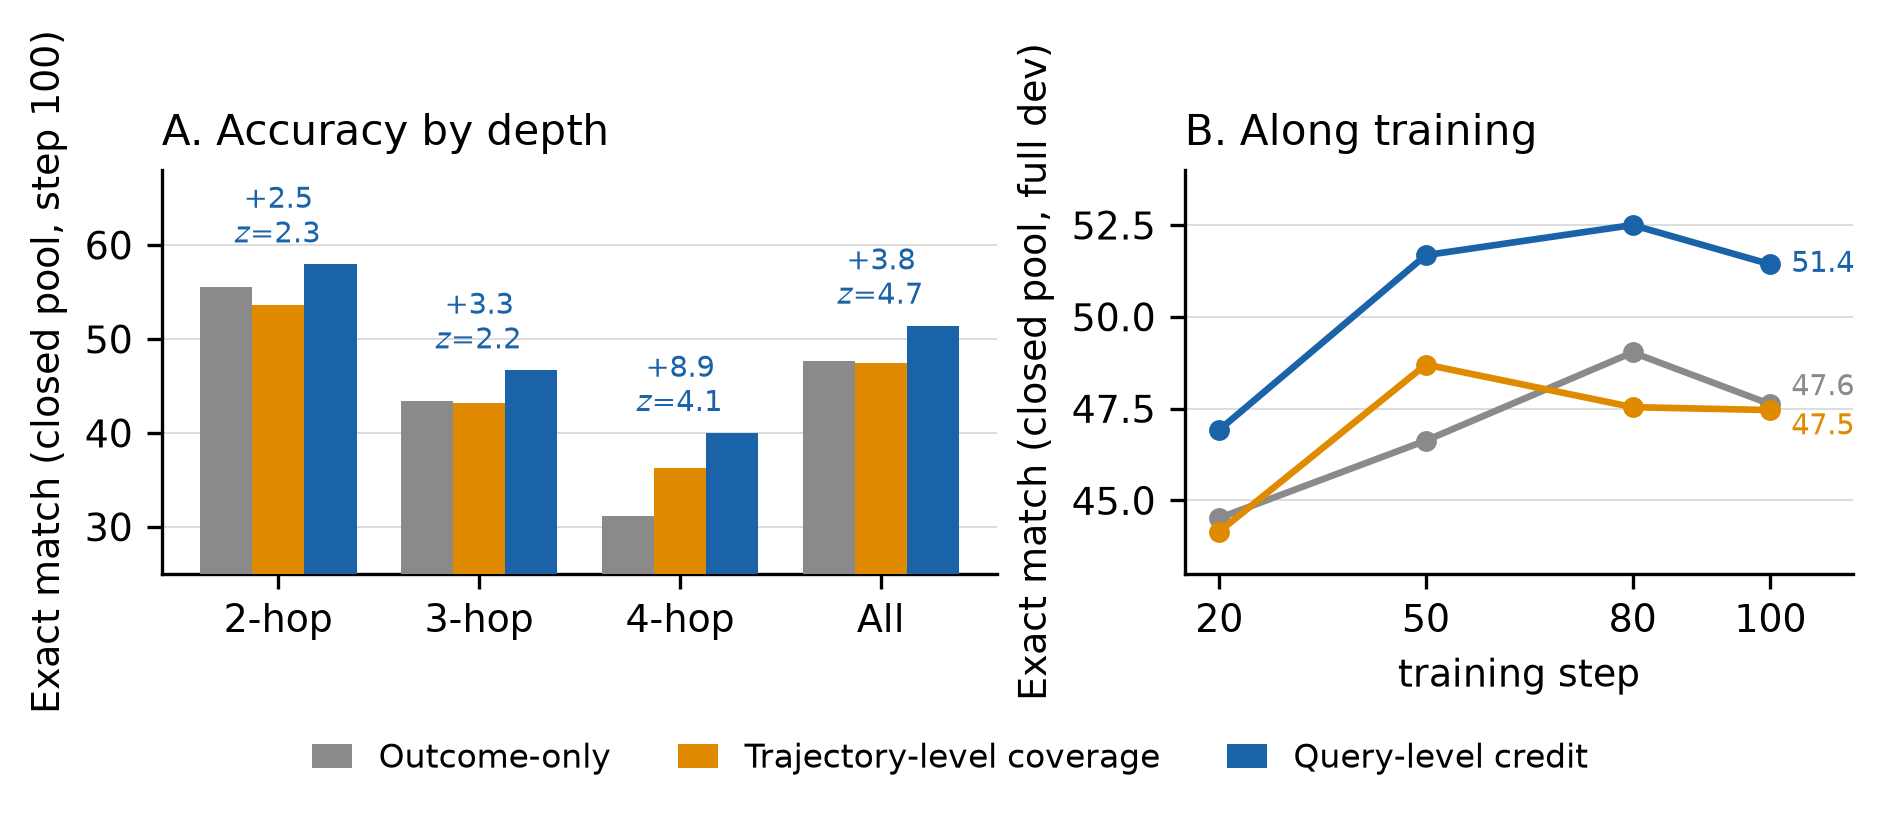
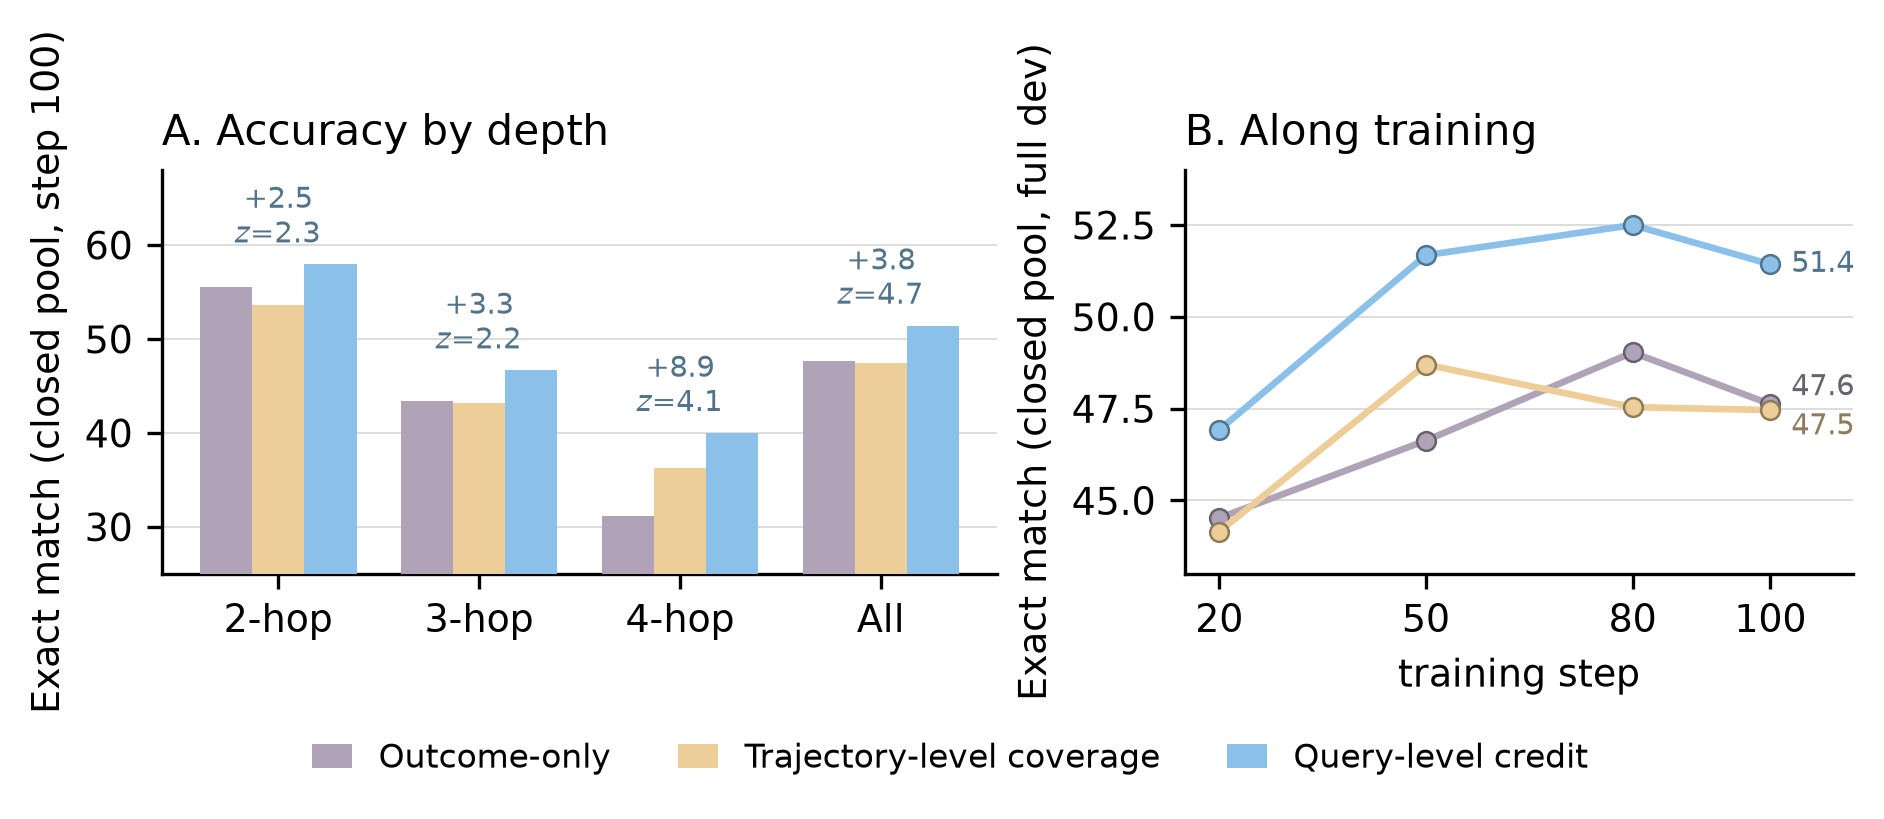
paper: palette (PALETTE.md + style.PAL/INK), applied to fig_main_arms; LaTeX shade color for table rows

diff --git a/paper_assets/fig_main_arms.py b/paper_assets/fig_main_arms.py
@@ -8,9 +8,10 @@ import sys
 from pathlib import Path
 sys.path.insert(0, str(Path(__file__).parent))
 import numpy as np
-from style import C, OUT, plt
+from style import C, OUT, PAL, INK, plt
 
-ARMS = [("Outcome-only", C["gray"]), ("Trajectory-level coverage", C["warn"]), ("Query-level credit", C["main"])]
+ARMS = [("Outcome-only", PAL["base"]), ("Trajectory-level coverage", PAL["traj"]), ("Query-level credit", PAL["ours"])]
+INKS = {"Outcome-only": INK["base"], "Trajectory-level coverage": INK["traj"], "Query-level credit": INK["ours"]}
 hops = ["2-hop", "3-hop", "4-hop", "All"]
 em = {  # step 100
     "Outcome-only":              [55.51, 43.42, 31.11, 47.62],
@@ -31,19 +32,19 @@ for k, (name, col) in enumerate(ARMS):
     ax.bar(x + (k - 1) * w, em[name], w, color=col, label=name, zorder=3)
 for i in range(len(hops)):
     top = max(em[n][i] for n, _ in ARMS)
-    ax.text(x[i], top + 1.2, f"+{delta[i]:.1f}\n$z$={zs[i]:.1f}", ha="center", va="bottom", fontsize=7, color=C["main"])
+    ax.text(x[i], top + 1.2, f"+{delta[i]:.1f}\n$z$={zs[i]:.1f}", ha="center", va="bottom", fontsize=7, color=INK["ours"])
 ax.set_xticks(x); ax.set_xticklabels(hops); ax.set_ylabel("Exact match (closed pool, step 100)")
 ax.set_ylim(25, 68); ax.yaxis.grid(True, lw=0.4, alpha=0.5, zorder=0)
 ax.set_title("A. Accuracy by depth", loc="left")
 
 for name, col in ARMS:
-    bx.plot(steps, curve[name], "-o", color=col, ms=4, label=name)
+    bx.plot(steps, curve[name], "-o", color=col, ms=4.5, label=name, mec=INKS[name], mew=0.6)
 bx.set_xticks(steps); bx.set_xlabel("training step"); bx.set_ylabel("Exact match (closed pool, full dev)")
 bx.set_ylim(43, 54); bx.yaxis.grid(True, lw=0.4, alpha=0.5)
 bx.set_title("B. Along training", loc="left")
 offs = {"Outcome-only": 4, "Trajectory-level coverage": -4, "Query-level credit": 0}
 for name, col in ARMS:
-    bx.annotate(f"{curve[name][-1]:.1f}", (steps[-1], curve[name][-1]), xytext=(5, offs[name]), textcoords="offset points", fontsize=7, color=col, va="center")
+    bx.annotate(f"{curve[name][-1]:.1f}", (steps[-1], curve[name][-1]), xytext=(5, offs[name]), textcoords="offset points", fontsize=7, color=INKS[name], va="center")
 bx.set_xlim(15, 112)
 
 handles, labels = ax.get_legend_handles_labels()

diff --git a/paper_assets/style.py b/paper_assets/style.py
@@ -12,3 +12,11 @@ plt.rcParams.update({
 C = {"main": "#1a63a8", "bad": "#c23b22", "warn": "#e08a00",
      "ok": "#2e7d32", "gray": "#8a8a8a", "purple": "#6a4fa3"}
 OUT = "/home/boyuz5/our-rag/paper_assets/out"
+
+# 论文配色(PALETTE.md; 用户给定七色, 2026-09-16)。fill 用于柱/线/底纹, INK 用于文字标注。
+PAL = {"ours": "#8BC1E9", "traj": "#EDCD98", "base": "#B0A3B8", "neg": "#e2989f",
+       "alt": "#CAA6D2", "shade": "#ecc6c5", "shade_light": "#faedea"}
+def _darken(h, k=0.40):
+    r, g, b = (int(h[i:i + 2], 16) for i in (1, 3, 5))
+    return "#%02x%02x%02x" % tuple(int(c * (1 - k)) for c in (r, g, b))
+INK = {k: _darken(v) for k, v in PAL.items()}

diff --git a/paper/sections/results.tex b/paper/sections/results.tex
@@ -200,7 +200,7 @@ StepSearch~\citep{zheng-etal-2025-stepsearch}            & 18.25 & 26.96 & 35.15
 Search-R1~\citep{jin2025searchr1}                        & 20.40 & 29.50 & 45.00 & --- & 31.73 \\
 ReSearch~\citep{chen2025research}                        & 22.09 & 32.43 & 44.05 & --- & 32.77 \\
 \midrule
-\rowcolor{gray!20}
+\rowcolor{shade}
 Ours, query-level credit, + 50 episodes against wiki18   & \textbf{28.55} & \textbf{38.81} & \textbf{48.55} & \textbf{44.45} & 44.97 \\
 Ours, extended-training checkpoint (Appendix~E)          & 26.52 & 36.90 & 47.15 & 41.75 & \textbf{45.64} \\
 \bottomrule

diff --git a/paper/main.tex b/paper/main.tex
@@ -12,6 +12,8 @@
 \usepackage{graphicx}
 \usepackage{booktabs}
 \usepackage[table]{xcolor}   % \rowcolor for the shaded best row in tab:external
+\definecolor{shade}{HTML}{FAEDEA}       % paper_assets/PALETTE.md 米白底纹
+\definecolor{shadestrong}{HTML}{ECC6C5} % 浅粉强底纹
 \usepackage{url}
 \usepackage[hidelinks]{hyperref}
 \usepackage{natbib}

diff --git a/paper_assets/PALETTE.md b/paper_assets/PALETTE.md
@@ -1,0 +1,21 @@
+# 论文配色方案(2026-09-16,用户给定七色)
+
+| 色 | HEX | 相对亮度 | 角色 | 用在哪 |
+|---|---|---|---|---|
+| 天蓝 | `#8BC1E9` | 0.50 | **ours / 主方法**(query-level credit) | 柱、线、主行 |
+| 沙金 | `#EDCD98` | 0.64 | 对照臂 A(trajectory-level coverage) | 柱、线 |
+| 灰紫 | `#B0A3B8` | 0.39 | 对照臂 B / 基线(outcome-only,外部系统) | 柱、线 |
+| 玫红 | `#e2989f` | 0.41 | 负向 / 病理(cost ordering、失效臂)、强调 | 少量 |
+| 淡紫 | `#CAA6D2` | 0.44 | 第二强调(SFT 起点、参考线) | 少量 |
+| 浅粉 | `#ecc6c5` | 0.62 | 强底纹(面板底、区间带) | 填充 |
+| 米白 | `#faedea` | 0.87 | 弱底纹(表格主行 `\rowcolor`、图注底) | 填充 |
+
+三臂灰度可分:0.50 / 0.64 / 0.39,黑白打印不混。
+
+**文字用深色版(ink)**:浅色直接写字对比度不够,标注/数字用同色系加深 40%:
+蓝 `#537490`、沙 `#8e7b5b`、灰紫 `#6a626e`、玫红 `#885b5f`、淡紫 `#796470`。
+
+**代码**:`paper_assets/style.py` 的 `PAL`(fill)与 `INK`(文字),所有 `fig_*.py` 从这里取色;
+LaTeX 端 `main.tex` 里 `\definecolor{shade}{HTML}{FAEDEA}` 等同名定义,表格主行 `\rowcolor{shade}`。
+
+首用:`fig_main_arms.py`(§6.1 三臂图)。
